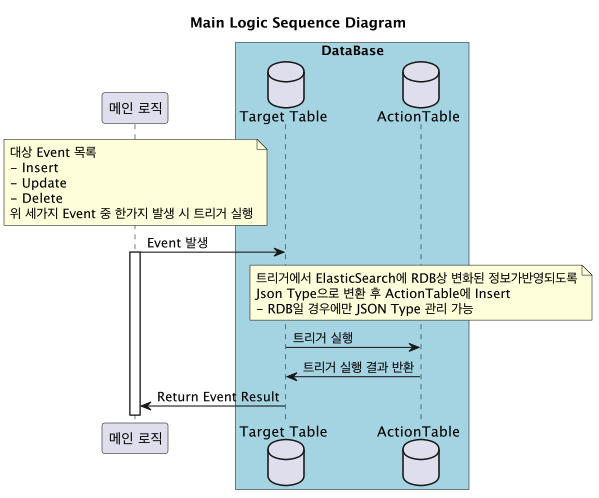
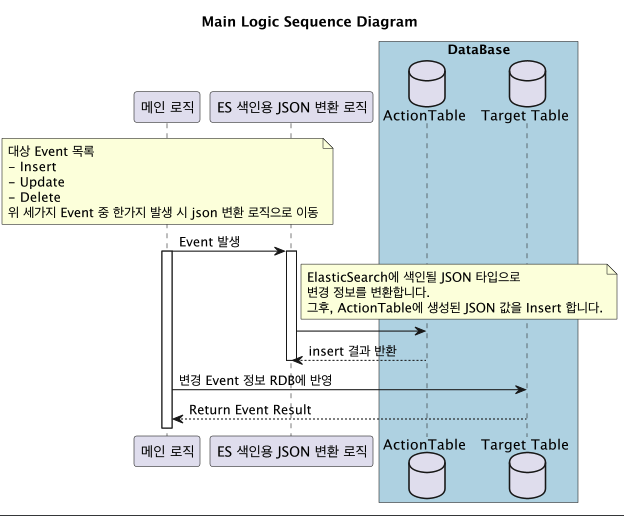
로직 구상 완료

diff --git a/working_History/BackEnd_Spring/searchFunctionTest/allIndexInitBatch/src/main/java/com/example/indexinitbatch/elasticIndexing/Config/ElasticConfigure/Version_7/x/x/Version_7_ElasticGlobalConfig.java b/working_History/BackEnd_Spring/searchFunctionTest/allIndexInitBatch/src/main/java/com/example/indexinitbatch/elasticIndexing/Config/ElasticConfigure/Version_7/x/x/Version_7_ElasticGlobalConfig.java
@@ -5,6 +5,7 @@ import org.springframework.context.annotation.Configuration;
 import org.springframework.data.elasticsearch.client.ClientConfiguration;
 import org.springframework.data.elasticsearch.client.RestClients;
 import org.springframework.data.elasticsearch.config.AbstractElasticsearchConfiguration;
+import org.springframework.http.HttpHeaders;
 
 /**
  *
@@ -16,10 +17,18 @@ import org.springframework.data.elasticsearch.config.AbstractElasticsearchConfig
 public class Version_7_ElasticGlobalConfig extends AbstractElasticsearchConfiguration {
     @Override
     public RestHighLevelClient elasticsearchClient() {
+
+        HttpHeaders defaultHeaders = new HttpHeaders();
+        defaultHeaders.set("Connection", "keep-alive");
+
         ClientConfiguration clientConfiguration = ClientConfiguration.builder()
                 .connectedTo("localhost:9200")
                 .withBasicAuth("test","test1234")
+                .withSocketTimeout(15000)  // 15초로 설정
+                .withConnectTimeout(10000)  // 10초로 설정
+                .withDefaultHeaders(defaultHeaders)  // keep-alive 헤더 설정
                 .build();
+
         return RestClients.create(clientConfiguration).rest();
     }
 

diff --git a/working_History/BackEnd_Spring/searchFunctionTest/allIndexInitBatch/src/main/java/com/example/indexinitbatch/elasticIndexing/Service/Batch/Reader/RdbReaderImpl.java b/working_History/BackEnd_Spring/searchFunctionTest/allIndexInitBatch/src/main/java/com/example/indexinitbatch/elasticIndexing/Service/Batch/Reader/RdbReaderImpl.java
@@ -40,11 +40,13 @@ public class RdbReaderImpl implements RdbReader {
             /**
              * 수행 쿼리 :
              *
-             * SELECT f.firstInfoId, f.name, f.age, m.main_category, s.sub_category
-             * FROM firstInfo f
-             *   JOIN tb_ref r ON f.firstInfoId = r.firstInfoId
-             *   JOIN tb_main_category m ON r.main_category_seq = m.main_category_seq
-             *   JOIN tb_sub_category s ON r.sub_category_seq = s.sub_category_seq
+             *
+             * SELECT f.firstInfoId, f.name, f.age, m.main_category, s.sub_category, word.keyword
+             *  FROM firstInfo f
+             *    JOIN tb_ref r ON f.firstInfoId = r.firstInfoId
+             *    JOIN tb_main_category m ON r.main_category_seq = m.main_category_seq
+             *    JOIN tb_sub_category s ON r.sub_category_seq = s.sub_category_seq
+             *    JOIN  tb_keyword word on r.keyword_seq = word.keyword_seq
              *
              */
             pagingQueryProvider.setDataSource(template.getDataSource());

diff --git a/working_History/BackEnd_Spring/searchFunctionTest/eventIndexInitBatch/README.md b/working_History/BackEnd_Spring/searchFunctionTest/eventIndexInitBatch/README.md
@@ -10,12 +10,11 @@ elastic search에 RDB 데이터를 특정 event별로 넣어주는 배치 API
 부분 배치 로직은 다음과 같습니다.
 
 ### 1. MainLogic
-먼저 기존 로직에서 , Insert , Update , Delete 이벤트가 대상 테이블에 발생 하면 , 트리거를 사용하여 Action Table에 변경 정보를 적재해 둡니다.
-
+먼저 기존 로직에서 , Insert , Update , Delete 이벤트가 대상 테이블에 발생 하면 , ElasticSearch에 색인될 JSON을 생성시킨 뒤 , ActionTable에 해당 정보를 적제해 둡니다. 
 ![mainLogic](../Images/mainLogic.png)
 
 ### 2. BatchLogic
-일정 주기를 가지는 Batch Application이 Action Table에 적재된 변경 정보를 ElasticSearch에 색인 합니다.
+일정 주기를 가지는 Batch Application이 Action Table에 적재된 변경 정보(Json)를 ElasticSearch에 색인 합니다.
 
 ![batchLogic](../Images/batchLogic.png)
 
@@ -28,8 +27,113 @@ elastic search에 RDB 데이터를 특정 event별로 넣어주는 배치 API
 |------------------|-------------|-----------------------------|------------------------------------|
 | _id | int         | row별 식별자 값 (auto_increment) | pk                                 |
 | action     | varchar(20) | 해당 이벤트 분류값                  | UPDATE , DELETE , INSERT 셋중 하나 들어옴 |
-| firstInfoId     | int         | 메인 테이블의 기본키                 | -                                  |
-| changesValue     | varchar(20) | 변경 내용                       | -                                  |
+| firstInfoId     | int         | 메인 테이블의 기본키                 | doc id                             |
+| changesValue     | varchar(20) | 변경 내용                       | ES에 색인되는 JSON 값이 들어감               |
 | updateDateTime     | timestamp   | 변경 발생시간                     | -                                  |
 
+## Json Type 
+changeValue 컬럼에 Insert되는 Json은 아래 형식으로 변환 생성되어 ActionTable에 적재됩니다.
+- create 일 경우와 Update일 경우에만 Json을 저장하고, Delete일경우엔 doc id만 있으면되기때문에 , changesValue는 비워두고 docId인 fistInfoId만 저장합니다.
+
+### CREATE
+- 모든 필드를 저장해둡니다.
+```bash
+{
+    "docInfo": {
+        "firstInfoId": 2,
+        "name": "2_영상",
+        "age": 7000,
+        "keyword": ["초록", "힐링이다", "mood"],
+        "categories": [
+            {
+                "main_category": "영상",
+                "sub_category": "전문가"
+            }
+        ]
+    }
+}
+```
+
+### UPDATE
+- 변경대상 필드만 저장해 둡니다.
+```bash
+{
+    "docInfo": {
+        "update_target": {
+            "name": "새로운_영상_이름"
+        }
+    }
+}
+```
+
+### 키워드 추가
+키워드들을 추가하기 위해서 ,List type으로 키워드 필드를 저장해 둡니다.
+```bash
+{
+  "keywords": ["추가1","추가2"...]  
+}
+```
+
 ### 
+
+## 수행 쿼리
+ElasticSearch에 이벤트별 수행해야하는 쿼리는 다음과 같습니다.
+- [ElasticSearch Index CRUD 관련 문서.](../../../../DevOps_solutions/Elastic_모음/ElasticSearch/Index_CRUD.md)
+
+### 수정일 경우
+- target 필드 값 수정
+```bash
+{
+    "doc" : {
+       "target": "new_value"
+    }
+}
+```
+
+- keywords 파라미터 값 추가
+```bash
+{
+  "script": {
+    "source": "if (!ctx._source.keyword.contains(params.keywords_to_add)) { ctx._source.keyword.addAll(params.keywords_to_add); }",
+    "lang": "painless",
+    "params": {
+      "keywords_to_add": ["으악셋","으악둘"]
+    }
+  }
+}
+```
+
+#### Insert일 경우
+- Insert 일 경우엔, 미리 생성해둔 index-template에 맞추어 객체를 생성한 뒤 그대로 Json 변환 후 저장해 둡니다.
+```bash
+{
+    "firstInfoId": 2,
+    "name": "2_영상",
+    "age": 7000,
+    "keyword": ["초록", "힐링이다", "mood"],
+    "categories": [
+        {
+            "main_category": "영상",
+            "sub_category": "전문가"
+        }
+    ]
+}
+```
+
+#### Delete일 경우
+- doc 자체 제거일경우
+>json은 저장하지 않고 , doc id만 적재해 둡니다.
+
+- 특정 keyword만 제거할 경우
+```bash
+{
+  "script": {
+    "source": "for(int i =0; i< params.keywords_to_remove.size(); i++) {if (ctx._source.keyword.contains(params.keywords_to_remove[i])) {ctx._source.keyword.removeIf(e -> e.equals(params.keywords_to_remove[i]));}}",
+    "lang": "painless",
+    "params": {
+      "keywords_to_remove": ["으악하나","으악둘"]
+    }
+  }
+}
+```
+
